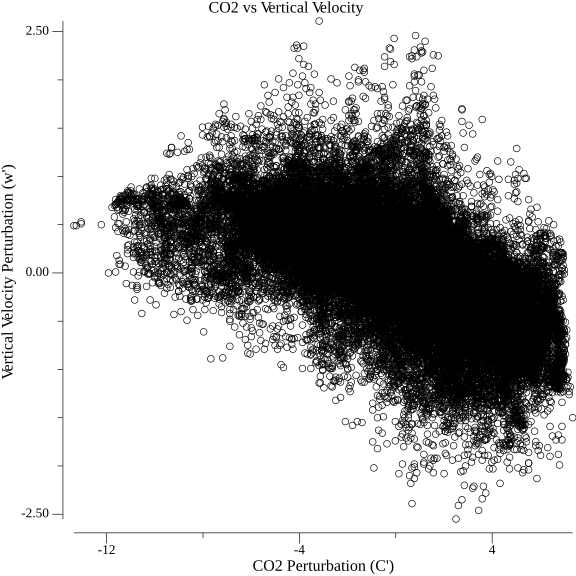
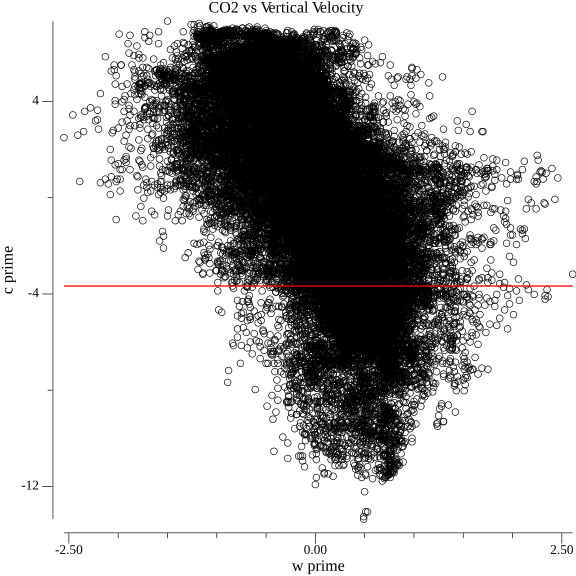
change co2 constant name

diff --git a/assignment1/problem6/main.go b/assignment1/problem6/main.go
@@ -92,13 +92,13 @@ func plotAndFit(wPrime, cPrime []float64, outputFileName string) (slope, interce
 	p := plot.New()
 
 	p.Title.Text = "CO2 vs Vertical Velocity"
-	p.Y.Label.Text = "Vertical Velocity Perturbation (w')"
-	p.X.Label.Text = "CO2 Perturbation (C')"
+	p.X.Label.Text = "w prime"
+	p.Y.Label.Text = "c prime"
 
 	pts := make(plotter.XYs, len(wPrime))
 	for i := range wPrime {
-		pts[i].X = cPrime[i]
-		pts[i].Y = wPrime[i]
+		pts[i].Y = cPrime[i]
+		pts[i].X = wPrime[i]
 	}
 
 	// Scatter plot
@@ -128,9 +128,8 @@ func plotAndFit(wPrime, cPrime []float64, outputFileName string) (slope, interce
 	return slope, intercept, rValue, covariance
 }
 
-func calculateCO2Flux(covariance float64, molarMassCO2 float64) float64 {
-	// Flux = covariance * air density * molar mass of CO2 / volume (conversion factor)
-	flux := covariance * molarMassCO2 * 1e6
+func calculateCO2Flux(covariance float64, CO2ConversionConstant float64) float64 {
+	flux := covariance * CO2ConversionConstant * 1e6
 	return flux
 }
 
@@ -150,14 +149,14 @@ func createPlotForFile(inputFileName string, outputFileName string) (*float64, e
 
 func main() {
 	// Constants
-	molarMassCO2 := float64(1000 / 44)
+	CO2ConversionConstant := float64(1000 / 44)
 
 	daytimeCovariance, err := createPlotForFile("daytime.eddies.csv", "daytime_plot.png")
 	if err != nil {
 		log.Fatal(err)
 	}
 
-	daytimeFlux := calculateCO2Flux(*daytimeCovariance, molarMassCO2)
+	daytimeFlux := calculateCO2Flux(*daytimeCovariance, CO2ConversionConstant)
 	fmt.Printf("Daytime CO2 Flux: %.4f micromoles/m^2 s\n\n", daytimeFlux)
 
 	nighttimeCovariance, err := createPlotForFile("nighttime.eddies.csv", "nighttime_plot.png")
